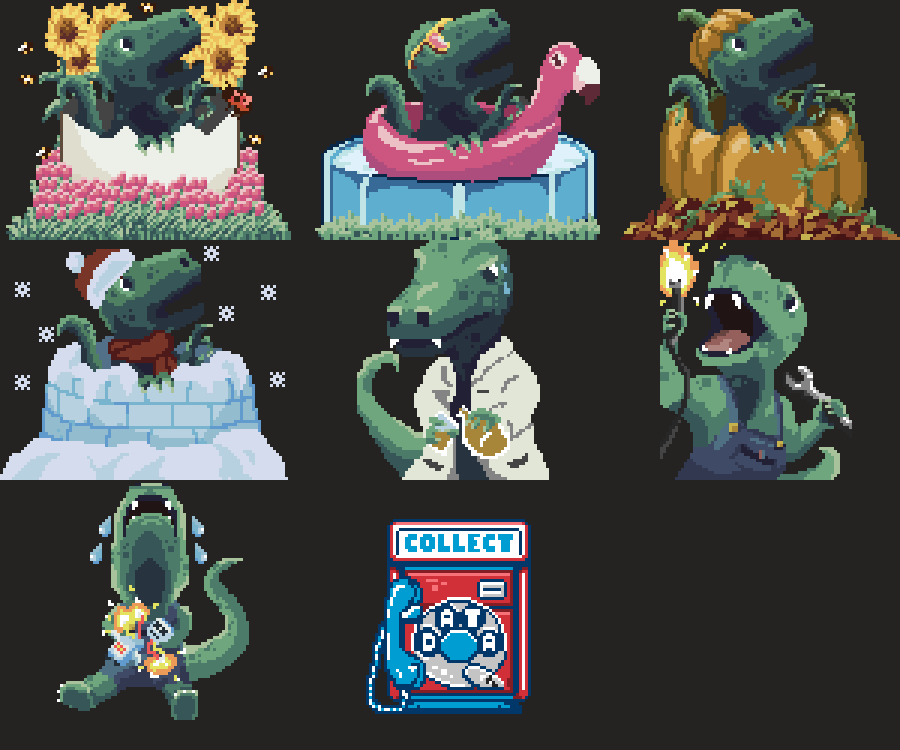
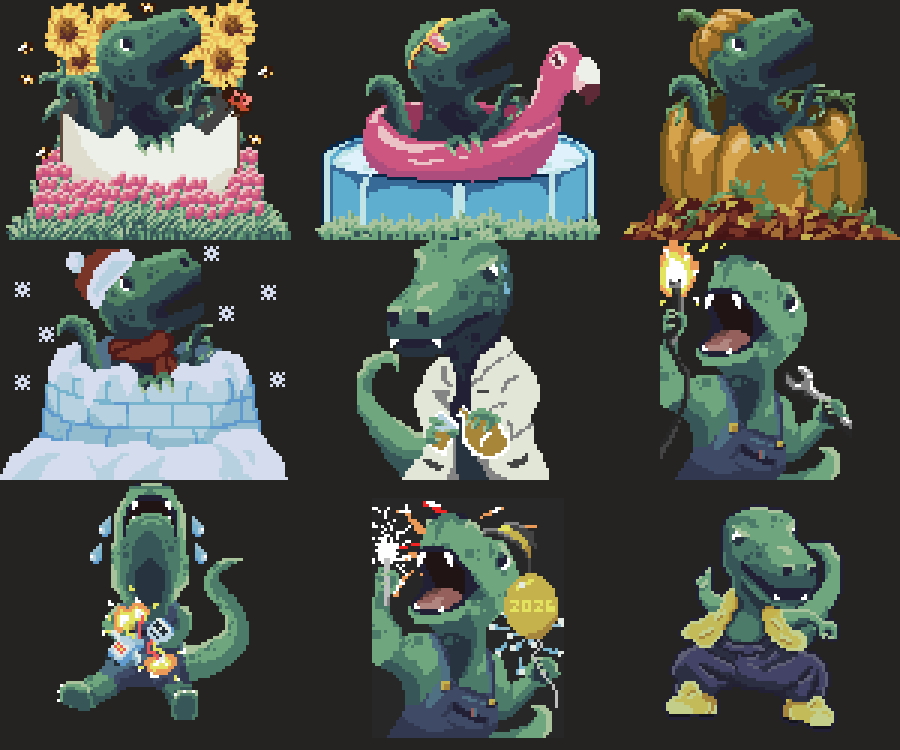
continued working on the art and workshop page

Changed region(s): [[0.4044, 0.644, 0.6222, 1.0], [0.7156, 0.6747, 0.9333, 0.9813]]

diff --git a/GetteGarage/GetteGarage.Client/Data/StudioProjectData.cs b/GetteGarage/GetteGarage.Client/Data/StudioProjectData.cs
@@ -55,10 +55,11 @@ public static class StudioProjectData
 				Title="For The Birds",
 				Version="ALPHA 0.3",
 				Tags= new() {new Tag("Video Game")},
-				Description="Grow your bird sanctuary, attract the birds",
+				Description="Turn an abandoned golf course into a thriving bird sanctuary. Plant native habitat, attract birds, and photograph them. Think Stardew Valley meets Pokémon Snap.",
 				TechStack="Godot 4",
 				StaticImage="/art/forthebirds.png",
 				AnimatedGif="/art/forthebirds.gif",
+				StoryPath="/stories/for_the_birds.md",
 			},
 			new StudioProject
 			{
@@ -73,44 +74,44 @@ public static class StudioProjectData
 			},
 			new StudioProject
 			{
-				Title="Idle Dev Simulator",
-				Version="v2.4",
-				Tags= new() {new Tag("Video Game")},
-				Description="Write code, drink coffee, squash bugs and upgrade your system.",
-				TechStack="Blazor WASM",
-			},
-			new StudioProject
-			{
-				Title = "Big Larry Animation", 
+				Title = "Pixel Art Animations", 
 				Tags= new() {new Tag("Art")},
 				StaticImage = "/art/big_larry_share.png",
-				AnimatedGif = "/art/big_larry_share.gif", 
-				Description = "Big Larry's one-handed swing animation.",
-				TechStack = "Aesprite"
-			},
-			new StudioProject 
-			{ 
-				Title = "For The Birds - Henry Animation", 
-				Tags= new() {new Tag("Art")},
-				StaticImage = "/art/prototype_henry_share.png", 
-				AnimatedGif = "/art/prototype_henry_share.gif",
-				Description = "Run animation for 'Henry'- protagonist of For The Birds.",
-				TechStack = "Aesprite"
+				AnimatedGif = "/art/big_larry_share.gif",
+				Gallery = new()
+				{
+					new GalleryImage { Src = "/art/big_larry_share.gif", Caption = "Big Larry"},
+					new GalleryImage {Src = "/art/prototype_henry_share.gif", Caption="Henry"},
+					new GalleryImage {Src = "/art/trash_bandit_flip.gif", Caption = "Trash Bandit"},
+				},
+				Description = "Collection of pixel art animations for games.",
+				TechStack = "Aesprite",
+				StoryPath="/stories/pixel_art_animations.md"
 			},
 			new StudioProject 
 			{
-				Title = "Rexi pixel art -- OPM", 
+				Title = "Pixel art -- OPM", 
 				Tags= new() {new Tag("Art")},
 				StaticImage = "art/opm_pixel_art.png",
-				Description="Various versions of Rexi, the chatbot mascot I made for OPM.",
-				TechStack = "Aesprite"
-			},
-			new StudioProject 
-			{
-				Title = "The Wranglers -- OPM", 
-				StaticImage = "art/wrangler.png", 
-				Tags= new() {new Tag("Art")},
-				Description="Team image I made for the 'Data Wranglers' combining jeeps, jeans, and cats.",
+				Gallery = new()
+				{
+					new GalleryImage {Src = "/art/wrangler.png", Caption= "Team image I made for the 'Data Wranglers'"},
+					new GalleryImage {Src="/art/badger.png", Caption= "Badger Jan"},
+		
+					new GalleryImage {Src="/art/digit.png", Caption= "Digit (DGT)"},
+					new GalleryImage {Src="/art/bison.png", Caption= "Design System Dakota"},
+					new GalleryImage {Src="/art/GPPApotamus_big.png", Caption= "GPPApotamus"},
+					new GalleryImage {Src="/art/rexi_spring.png", Caption= "Rexi (Spring)"},
+					new GalleryImage {Src="/art/rexi_summer.png", Caption= "Rexi (Summer)"},
+					new GalleryImage {Src="/art/rexi_fall.png", Caption= "Rexi (Fall)"},
+					new GalleryImage {Src="/art/rexi_winter.png", Caption= "Rexi (Winter)"},
+					new GalleryImage {Src="/art/rexi_prototype.png", Caption= "Rexi (Prototype)"},
+					new GalleryImage {Src="/art/rexi_research.png", Caption= "Rexi (Research)"},
+					new GalleryImage {Src="/art/rexi_cry.png", Caption= "Rexi (Cry)"},
+					new GalleryImage {Src="/art/rexi_hammer.png", Caption= "Rexi (Hammer Pants)"},
+					new GalleryImage {Src="/art/rexi_newyear.png", Caption= "Rexi (New Year)"},
+				},
+				Description="Various pixel art mascots I made for our teams at OPM.",
 				TechStack = "Aesprite"
 			},
 			new StudioProject 
@@ -120,6 +121,15 @@ public static class StudioProjectData
 				StaticImage="/art/trading_cards_argon.png", 
 				AnimatedGif= "/art/trading_cards.png", 
 				Description = "Trading card character portraits. Oil on card stock 2.5\"x3.5\" ea.",
+				Gallery = new()
+				{
+					new GalleryImage {Src="/art/art_smart.png", Caption= "Art"},
+					new GalleryImage {Src="/art/thalmor.png", Caption= "Thalmor"},
+					new GalleryImage {Src="/art/chanel.png", Caption= "Chanel"},
+					new GalleryImage {Src="/art/dorgothy.png", Caption= "Dorgothy"},
+					new GalleryImage {Src="/art/argon.png", Caption= "Argon"},
+					new GalleryImage {Src="/art/erdric.png", Caption= "Erdric"},
+				},
 				TechStack = "Oil on card stock"
 			}
 		};

diff --git a/GetteGarage/GetteGarage.Client/Data/StudioProject.cs b/GetteGarage/GetteGarage.Client/Data/StudioProject.cs
@@ -12,6 +12,7 @@ public class StudioProject
     public string Description { get; set; } = "";
     public string TechStack { get; set; } = "";
     public string StoryPath  { get; set; } = "";
+    public List<GalleryImage> Gallery { get; set; } = new();
 }
 
 public class Tag : IEquatable<Tag>

diff --git a/GetteGarage/GetteGarage.Client/Data/GalleryImage.cs b/GetteGarage/GetteGarage.Client/Data/GalleryImage.cs
@@ -1,0 +1,7 @@
+namespace GetteGarage.Client.Data;
+
+public class GalleryImage
+{
+	public string Src {get; set;} = "";
+	public string Caption {get; set;} = "";
+}

diff --git a/GetteGarage/GetteGarage/wwwroot/stories/pixel_art_animations.md b/GetteGarage/GetteGarage/wwwroot/stories/pixel_art_animations.md
@@ -1,0 +1,11 @@
+# Game Animations
+
+A handful of animations I made for my games, all made in aseprite. Pixel animation is a funny medium where if you misplace a single pixel, it looks wrong and you have approximately 16 pixels and a handful of colors to convey weight, personality, and some action.
+
+## Big Larry
+
+Larry's one-handed swing started with a video of a friend swinging a wiffle bat on the lawn, which became my reference. Larry's hats and bats are animated in separate layers so any combination can be swapped depending on what the player has equipped. There are 9 frames in his swing animation and getting the rally cap to look right as it's turning in space was a little funky. You can read about that in the blog: [I made and published a game in six weeks!](/blog/i-made-and-published-a-game-in-6).
+
+## Henry and Trash Bandit
+
+These animations I tried to push myself to get something dynamic in just a few pixels. Henry has the backpack silhouette moving back and forth as he runs and the raccoon I added a front flip and handstand to emulate Mario from DK '94. 

diff --git a/GetteGarage/GetteGarage/wwwroot/stories/for_the_birds.md b/GetteGarage/GetteGarage/wwwroot/stories/for_the_birds.md
@@ -1,0 +1,22 @@
+## The Premise
+
+You volunteer at an abandoned golf course. Instead of turning it into a farm
+or a resort, you restore it into a bird sanctuary. Plant native
+vegetation, wait for the habitat to mature, and see who shows up.
+
+It's a cozy ecological restoration game with a bird photography habit,
+inspired by Stardew Valley, Pokémon Snap, and Viva Pinata.
+
+## Build It and They Will Come
+
+Every bird species has different needs, so what you plant decides who
+visits. A patch of grassland brings in different birds than a stand of
+shrubs or a wetland edge.
+
+## Pack Light
+
+You don't carry an endless backpack. You carry a **field kit**, with
+separate loadouts for seeds, restoration structures, recording gear,
+and hand tools. You prepare before you head out, then work with what you
+packed. Switching tools feels a bit like swapping weapons in an action
+game, only the weapons are shovels and binoculars.
